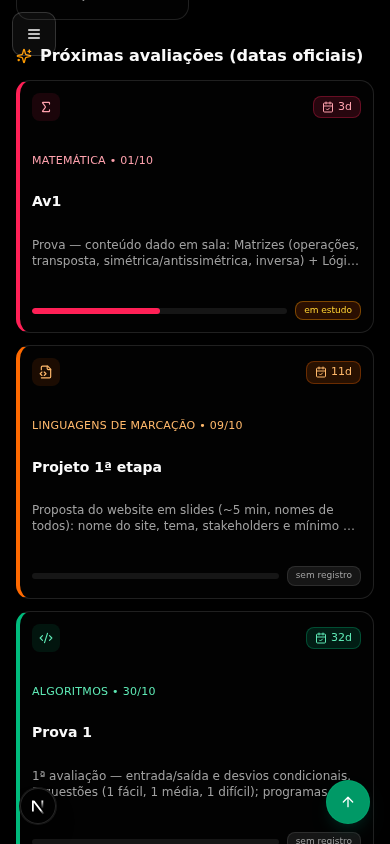
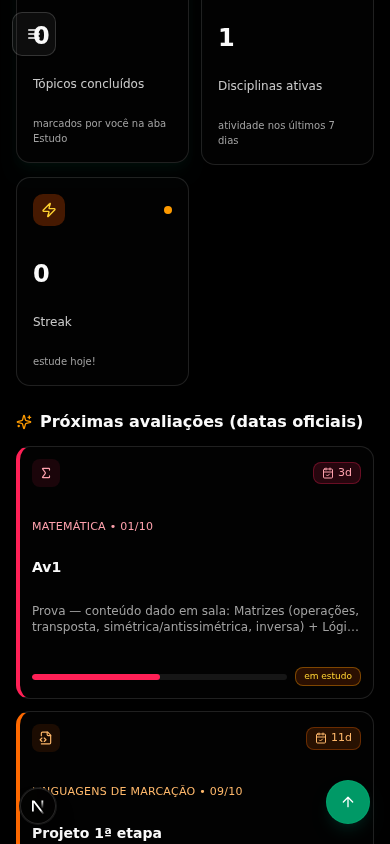
feat: O PROGRESSO SE REGISTRA SOZINHO — o dono foi direto (28/09): 'não tô entendendo em que momento marco esses tópicos ou como o site acompanha meu progresso… eu geralmente só abro os materiais e tiro dúvidas com a tutor e resolvo… muita coisa fica como atrasado na minha página pois nenhum progres

Changed region(s): [[0.0308, 0.0308, 0.9231, 1.0], [0.7385, 0.9858, 0.9231, 1.0], [0.4615, 0.3697, 0.4923, 0.4313]]

diff --git a/src/components/hub/dashboard.tsx b/src/components/hub/dashboard.tsx
@@ -147,7 +147,7 @@ export function Dashboard({ onStartStudy, onOpenSchedule, onOpenLibrary, onOpenP
 
   // KPIs V3 adicionais
   const totalTopicsDone = countTotalTopicsDone(sp.progress.topicProgress);
-  // O FLUXO REAL CONTA (116): disciplinas com atividade nos últimos 7 dias —
+  // O FLUXO REAL CONTA (118): disciplinas com atividade nos últimos 7 dias —
   // derivado da MESMA fonte dos cards de avaliação (discipline-activity).
   // Antes: 'Disciplinas em dia' media checkboxes manuais e ficava em 0 para
   // o aluno que aprende abrindo material — ruído que ele aprendeu a ignorar.
@@ -159,7 +159,7 @@ export function Dashboard({ onStartStudy, onOpenSchedule, onOpenLibrary, onOpenP
 
   // Linhas derivadas das próximas avaliações (memoizado) — o nowMin entra
   // como chave: virou o dia, a linha recalcula no mesmo frame (lição 79).
-  // O PROGRESSO QUE SE REGISTRA SOZINHO (116): a barra e o selo leem a
+  // O PROGRESSO QUE SE REGISTRA SOZINHO (118): a barra e o selo leem a
   // ATIVIDADE REAL (materiais abertos + questões tentadas, fonte única
   // discipline-activity) — não os checkboxes manuais que ninguém marca.
   // Selo honesto: 'em dia' acompanhou o dado · 'em estudo' tem atividade ·
@@ -522,10 +522,11 @@ export function Dashboard({ onStartStudy, onOpenSchedule, onOpenLibrary, onOpenP
                     {e.description}
                   </p>
                   <div className="mt-2 flex items-center gap-2">
-                    {/* A barra mede ACOMPANHAMENTO DO DADO (116): do conteúdo dado
+                    {/* A barra mede ACOMPANHAMENTO DO DADO (118): do conteúdo dado
                         em aula, o quanto já foi tocado pela atividade real.
-                        Sem material registrado não há régua — a barra some em vez
-                        de mostrar 0% (zero medido ≠ zero esforço). */}
+                        Só some quando NADA foi dado (régua inexistente) — com
+                        conteúdo dado e zero atividade, 0% + 'sem registro' é
+                        honesto e aponta o caminho sem acusar. */}
                     {pct !== null && (
                       <div
                         className="relative h-1.5 flex-1 overflow-hidden rounded-full bg-muted"
@@ -541,7 +542,7 @@ export function Dashboard({ onStartStudy, onOpenSchedule, onOpenLibrary, onOpenP
                         />
                       </div>
                     )}
-                    {/* Selo honesto (116): em dia = acompanhou o dado (emerald);
+                    {/* Selo honesto (118): em dia = acompanhou o dado (emerald);
                         em estudo = tem atividade sua (a família da espera, amber,
                         sem pulso — não é prazo); sem registro = neutro, SEM
                         acusação — a palavra 'atrasada' saiu do painel. */}

diff --git a/src/components/hub/study-view.tsx b/src/components/hub/study-view.tsx
@@ -378,7 +378,7 @@ export function StudyView({
     () => getDisciplineTopics(disciplineCode, sp.progress.topicProgress),
     [disciplineCode, sp.progress.topicProgress],
   );
-  // ATIVIDADE REAL POR UNIDADE (116): o que o aluno JÁ FAZ — abrir material,
+  // ATIVIDADE REAL POR UNIDADE (118): o que o aluno JÁ FAZ — abrir material,
   // tentar questão — vira evidência visível no checklist. Fonte única:
   // discipline-activity (a mesma do painel; zero segunda fonte).
   const unitActivity = React.useMemo(() => {
@@ -1412,7 +1412,7 @@ export function StudyView({
                       Próximo: <span className="text-foreground">{topicsSummary.nextTopic}</span>
                     </p>
                   )}
-                  {/* A RESPOSTA À PERGUNTA DO DONO (116): "em que momento marco
+                  {/* A RESPOSTA À PERGUNTA DO DONO (118): "em que momento marco
                       esses tópicos?" — o critério didático fica visível, e a
                       linha de atividade prova que o fluxo real (abrir material,
                       resolver questão) já é registrado sozinho. */}
@@ -1456,7 +1456,7 @@ export function StudyView({
                         <div className="mb-3 flex items-center justify-between gap-2">
                           <h4 className="text-sm font-medium leading-snug">{unit.name}</h4>
                           <div className="flex shrink-0 items-center gap-1.5">
-                            {/* EVIDÊNCIA VISÍVEL (116): unidade com atividade real
+                            {/* EVIDÊNCIA VISÍVEL (118): unidade com atividade real
                                 ganha o selo 'em estudo' (a família da espera —
                                 amber, sem pulso: não é prazo) — o aluno vê que o
                                 site acompanhou o que ele já fez. */}
@@ -1506,7 +1506,7 @@ export function StudyView({
                             </label>
                           ))}
                         </div>
-                        {/* A PROVA DO ACOMPANHAMENTO (116): a evidência da sua
+                        {/* A PROVA DO ACOMPANHAMENTO (118): a evidência da sua
                             própria atividade — materiais abertos, questões
                             tentadas, quando foi a última vez. Mudo quando a
                             unidade nunca foi dada nem tocada (nada a acusar). */}

diff --git a/src/components/hub/semester-projection.tsx b/src/components/hub/semester-projection.tsx
@@ -90,7 +90,7 @@ export function SemesterProjection() {
     () => getAllDisciplinesTopics(sp.progress.topicProgress),
     [sp.progress.topicProgress],
   );
-  // O PROGRESSO QUE SE REGISTRA SOZINHO (117): a prévia lê a MESMA fonte do
+  // O PROGRESSO QUE SE REGISTRA SOZINHO (118): a prévia lê a MESMA fonte do
   // painel (discipline-activity) — a barra por disciplina passa a medir o
   // ACOMPANHAMENTO DO DADO (material-first) e o selo nunca diz 'atrasada':
   // em dia / em estudo / sem registro. Os checkboxes manuais seguem visíveis
@@ -390,7 +390,7 @@ export function SemesterProjection() {
         <div className="space-y-2">
           {topicSummaries.map((s) => {
             const color = getColorClasses(s.discipline.color);
-            // FONTE ÚNICA (117): a mesma atividade real do painel — barra mede
+            // FONTE ÚNICA (118): a mesma atividade real do painel — barra mede
             // acompanhamento do dado; sem material registrado, sem régua (a
             // barra some em vez de exibir 0%).
             const act = activityByCode.get(s.discipline.code) ?? null;

diff --git a/scripts/t118-e2e.py b/scripts/t118-e2e.py
@@ -169,9 +169,9 @@ def main() -> int:
             "selo 'sem registro' ausente",
         )
         check(
-            row_bar(page, "TEC.1984-Av1") == "NOBAR",
-            "Av1 SEM barra (nenhum material registrado = sem régua; zero medido ≠ zero esforço)",
-            f"Av1 mostra barra sem régua: {row_bar(page, 'TEC.1984-Av1')}",
+            row_bar(page, "TEC.1984-Av1") == "BAR0",
+            "Av1 barra honesta em 0% (conteúdo dado existe, atividade zero — aponta o caminho sem acusar)",
+            f"Av1 barra errada: {row_bar(page, 'TEC.1984-Av1')}",
         )
         check(
             row_badge(page, "TEC.1984-Av1").startswith("sem registro"),
